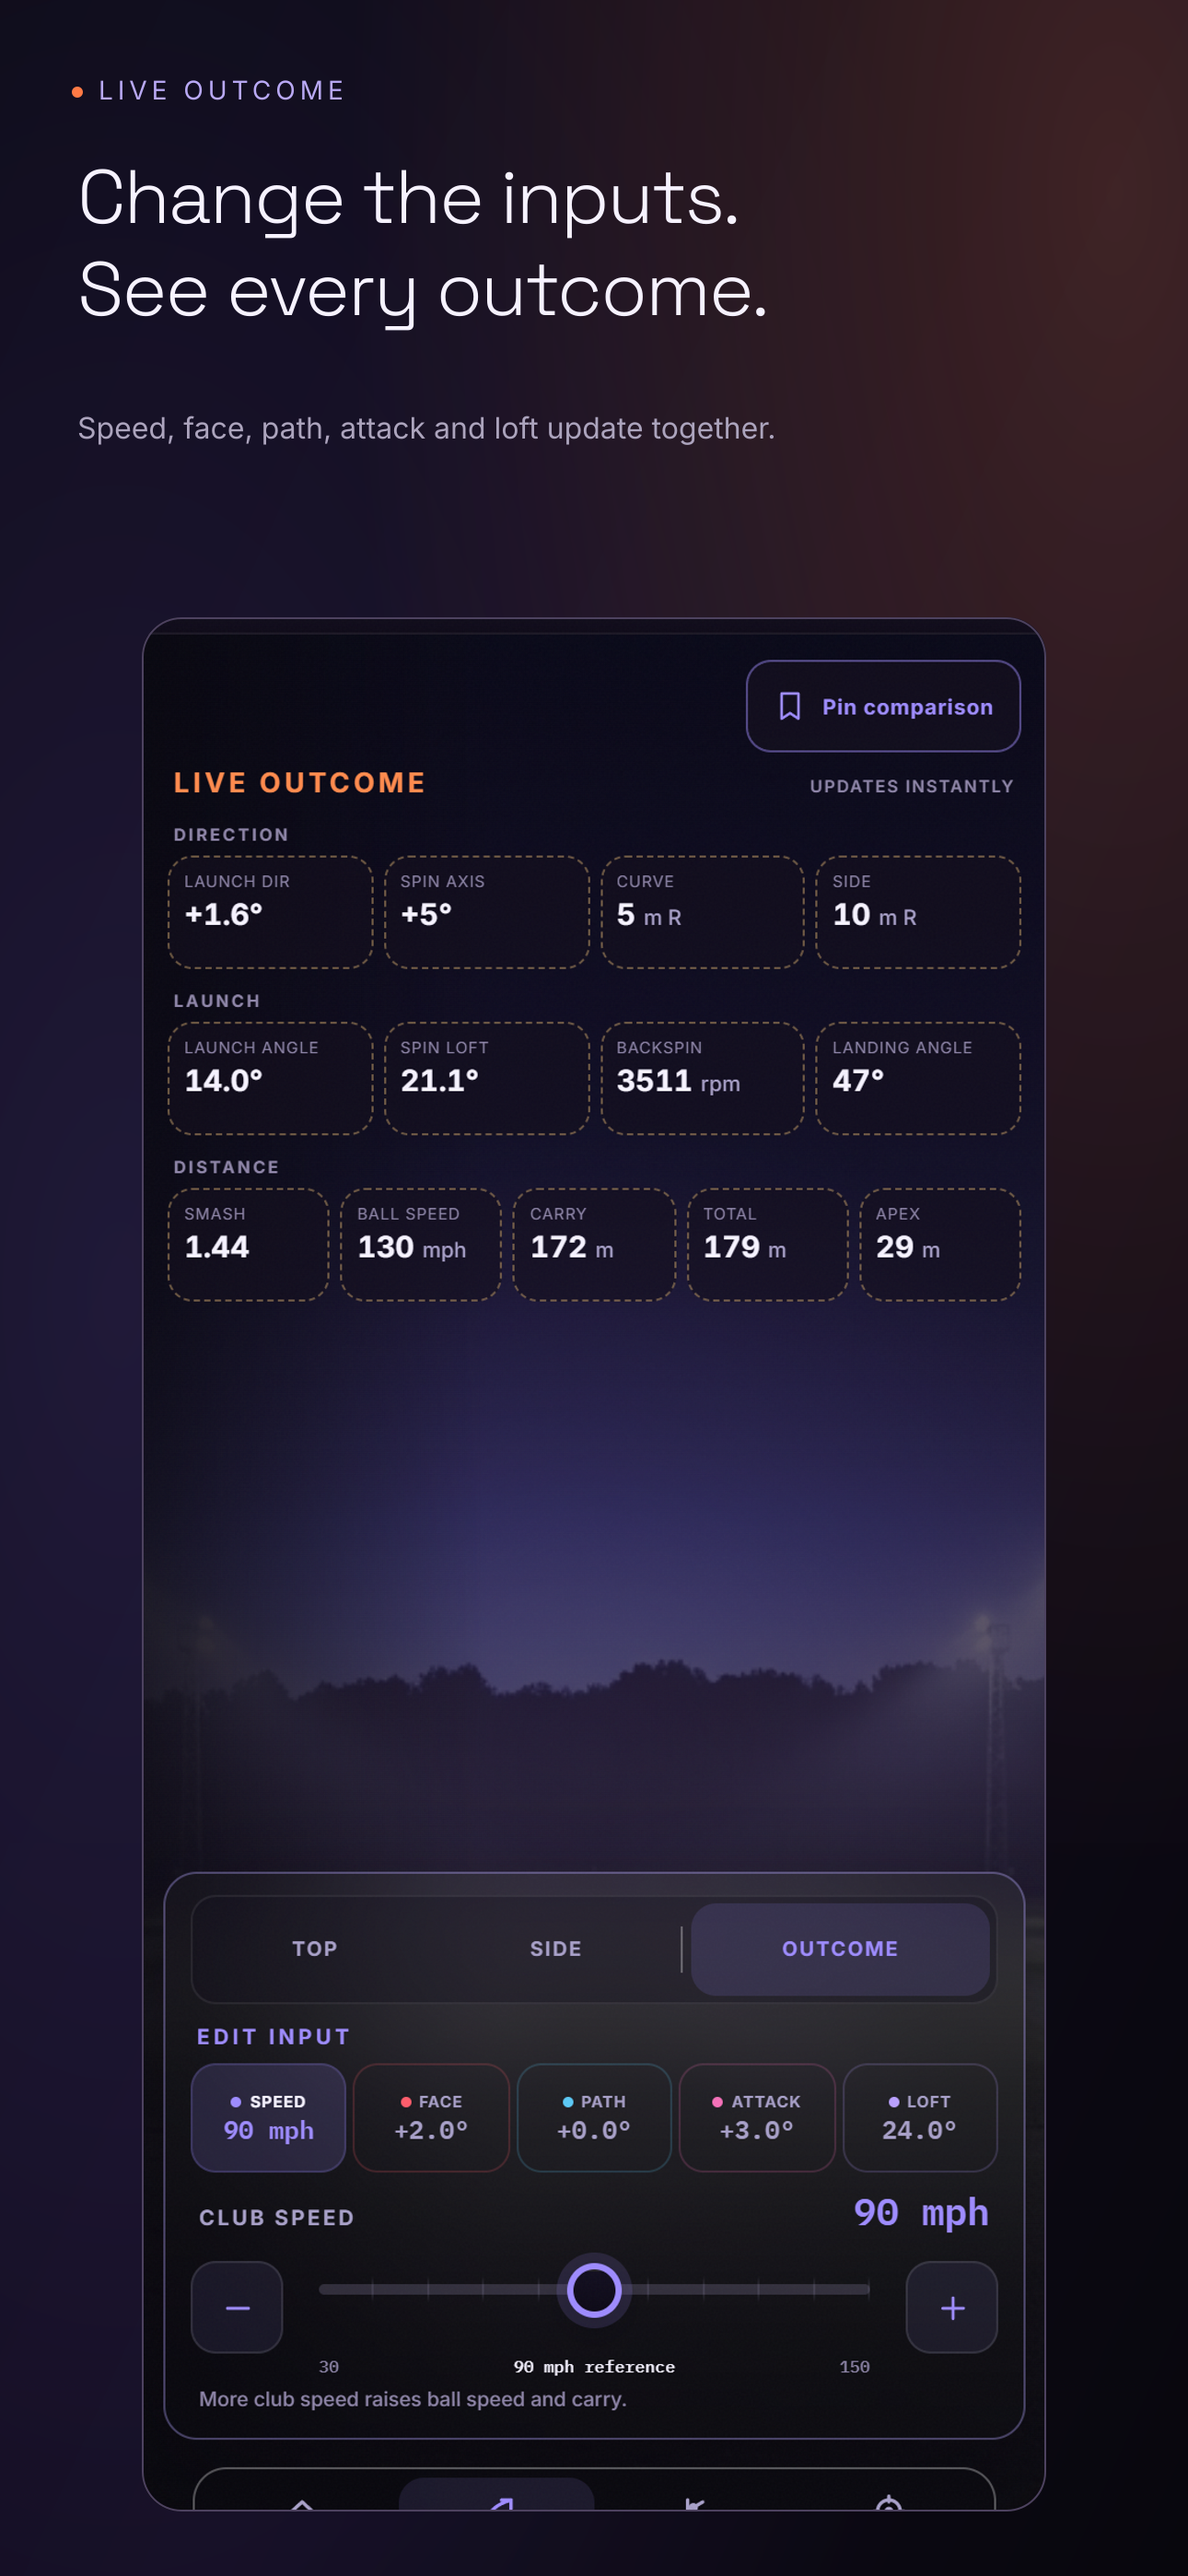
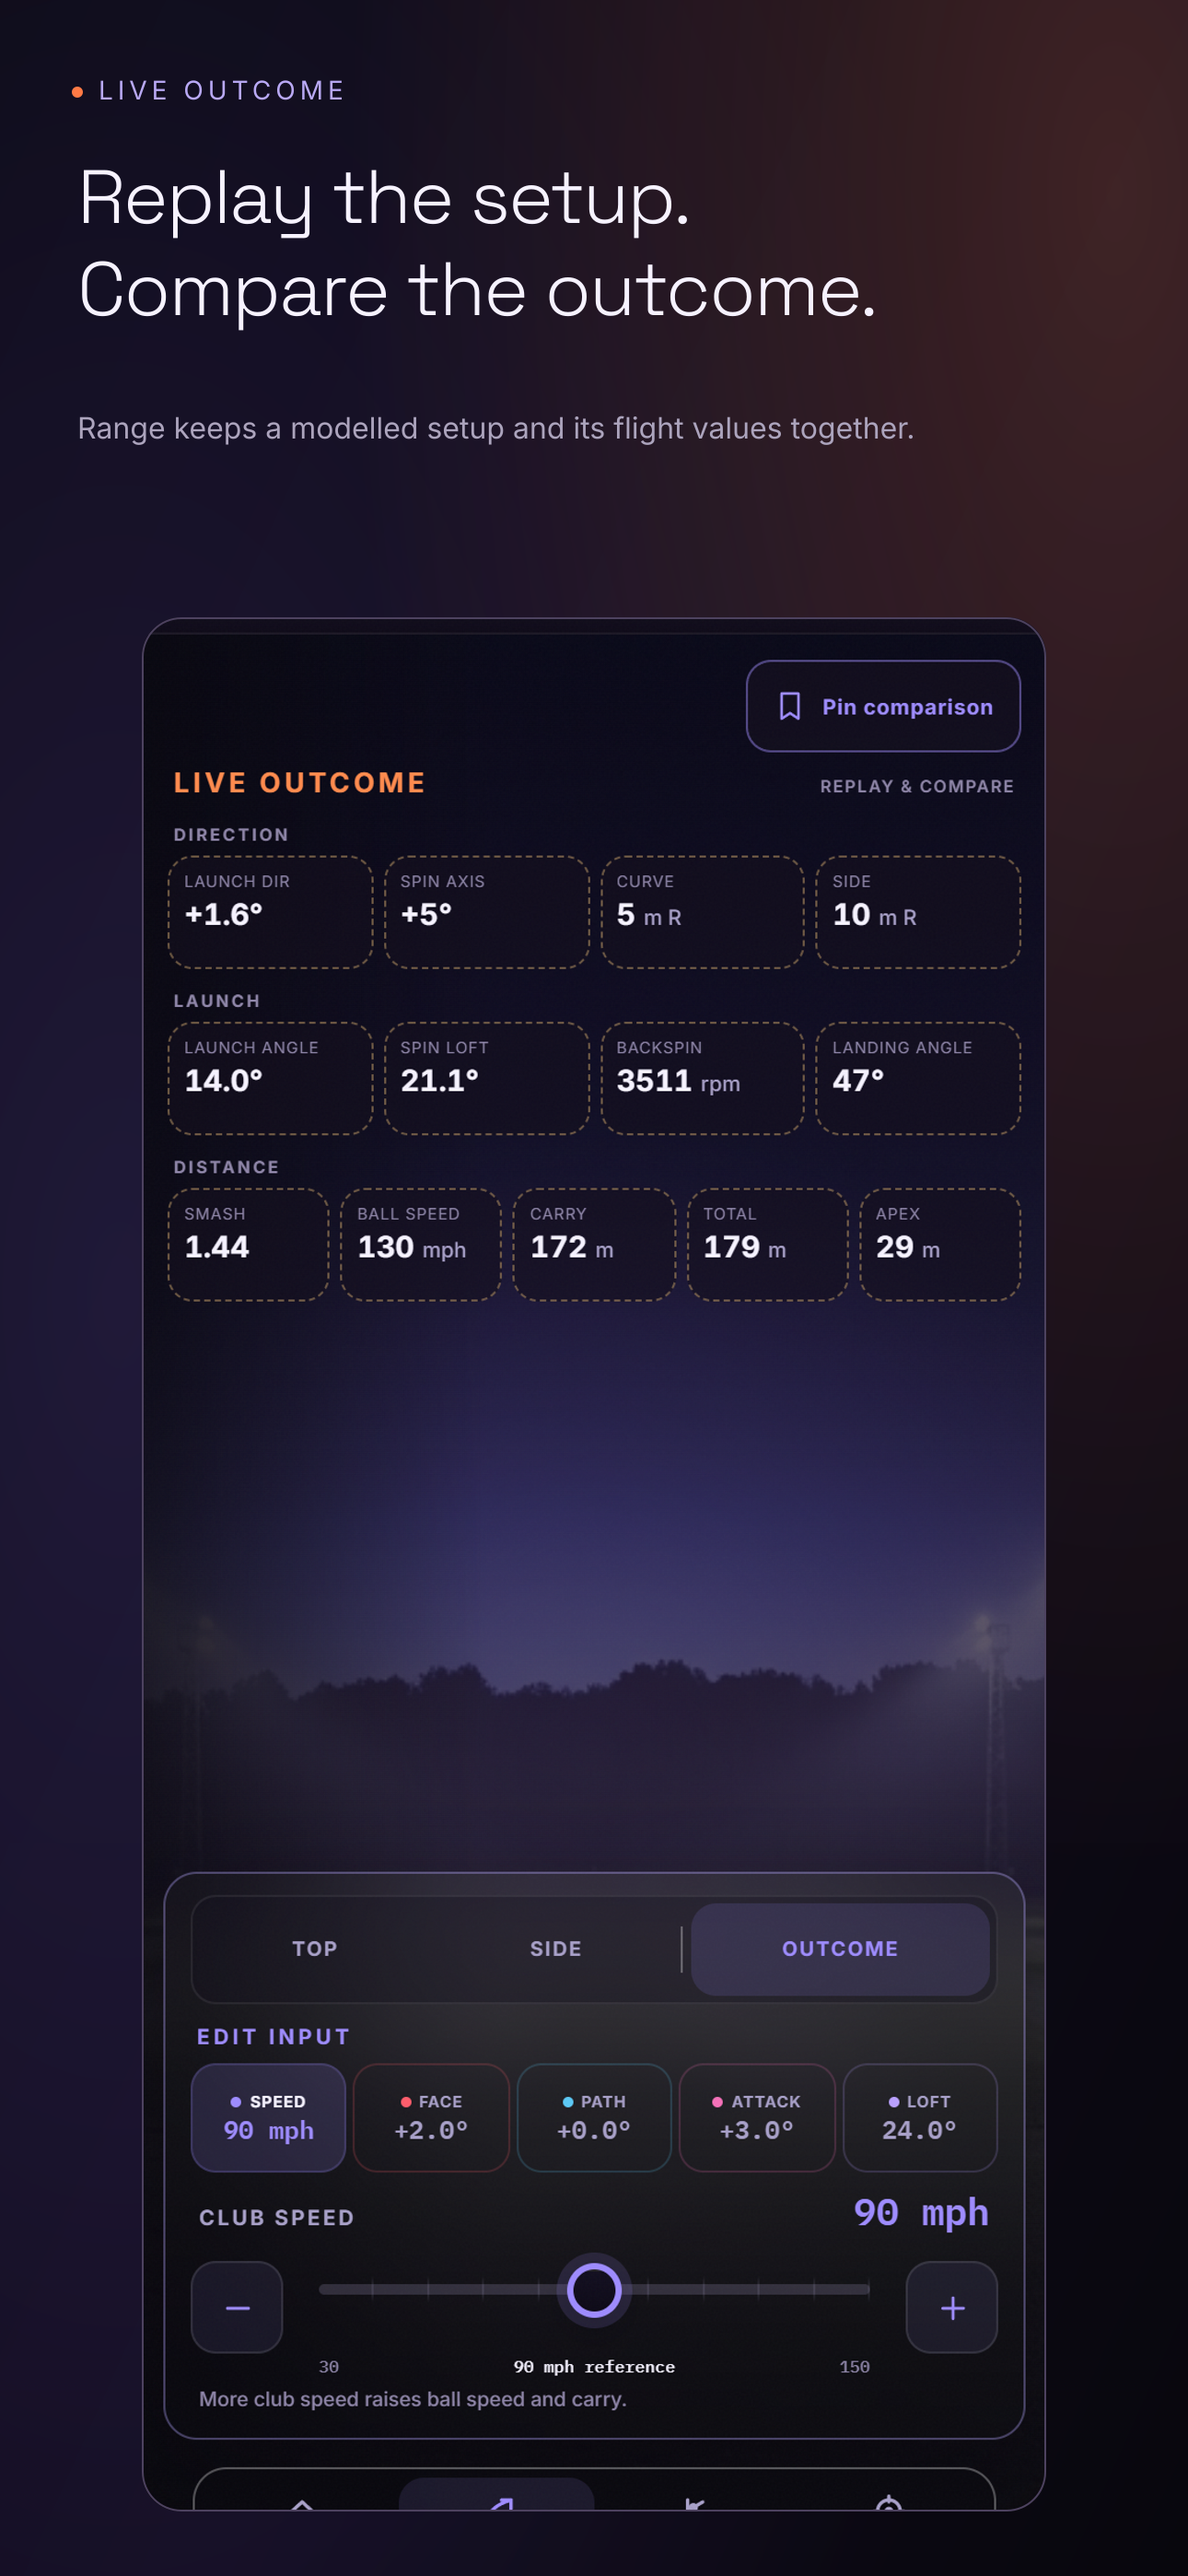
chore(release): refresh mechanics product captures

diff --git a/appstore/index.html b/appstore/index.html
@@ -5,15 +5,15 @@
 </head><body><span class="status">CURRENT V1 · UPLOAD SET</span><h1>Flightglass store artwork</h1>
 <p class="intro">Five current-product screenshots. Apple files are exactly 1290×2796. Google Play files are in <code>play/</code> at 1080×1920; the feature graphic is 1024×500.</p>
 <p class="links"><a href="./contact-sheet.png">Contact sheet</a><a href="./feature-graphic.png">Play feature graphic</a></p>
-<figure class="contact"><img src="./contact-sheet.png" alt="Contact sheet of all five current Flightglass screenshots"><figcaption>Current v1 set — Outcome, Studio, Guide, Home and interactive onboarding.</figcaption></figure>
+<figure class="contact"><img src="./contact-sheet.png" alt="Contact sheet of all five current Flightglass screenshots"><figcaption>Current v1 set — Range, Mechanics Lab, Guide, Home and interactive onboarding.</figcaption></figure>
 
     <figure>
-      <img src="./01.png" alt="Store screenshot 1: Change the inputs. See every outcome.">
-      <figcaption>1. <strong>Change the inputs. See every outcome.</strong> — Speed, face, path, attack and loft update together.</figcaption>
+      <img src="./01.png" alt="Store screenshot 1: Replay the setup. Compare the outcome.">
+      <figcaption>1. <strong>Replay the setup. Compare the outcome.</strong> — Range keeps a modelled setup and its flight values together.</figcaption>
     </figure>
     <figure>
-      <img src="./02.png" alt="Store screenshot 2: See where the club meets the ground.">
-      <figcaption>2. <strong>See where the club meets the ground.</strong> — Explore attack, path, low point and contact live.</figcaption>
+      <img src="./02.png" alt="Store screenshot 2: Trace cause to strike. Watch flight respond.">
+      <figcaption>2. <strong>Trace cause to strike. Watch flight respond.</strong> — Impact or Arc Inputs update contact and six outcomes.</figcaption>
     </figure>
     <figure>
       <img src="./03.png" alt="Store screenshot 3: Ask a precise golf question.">
